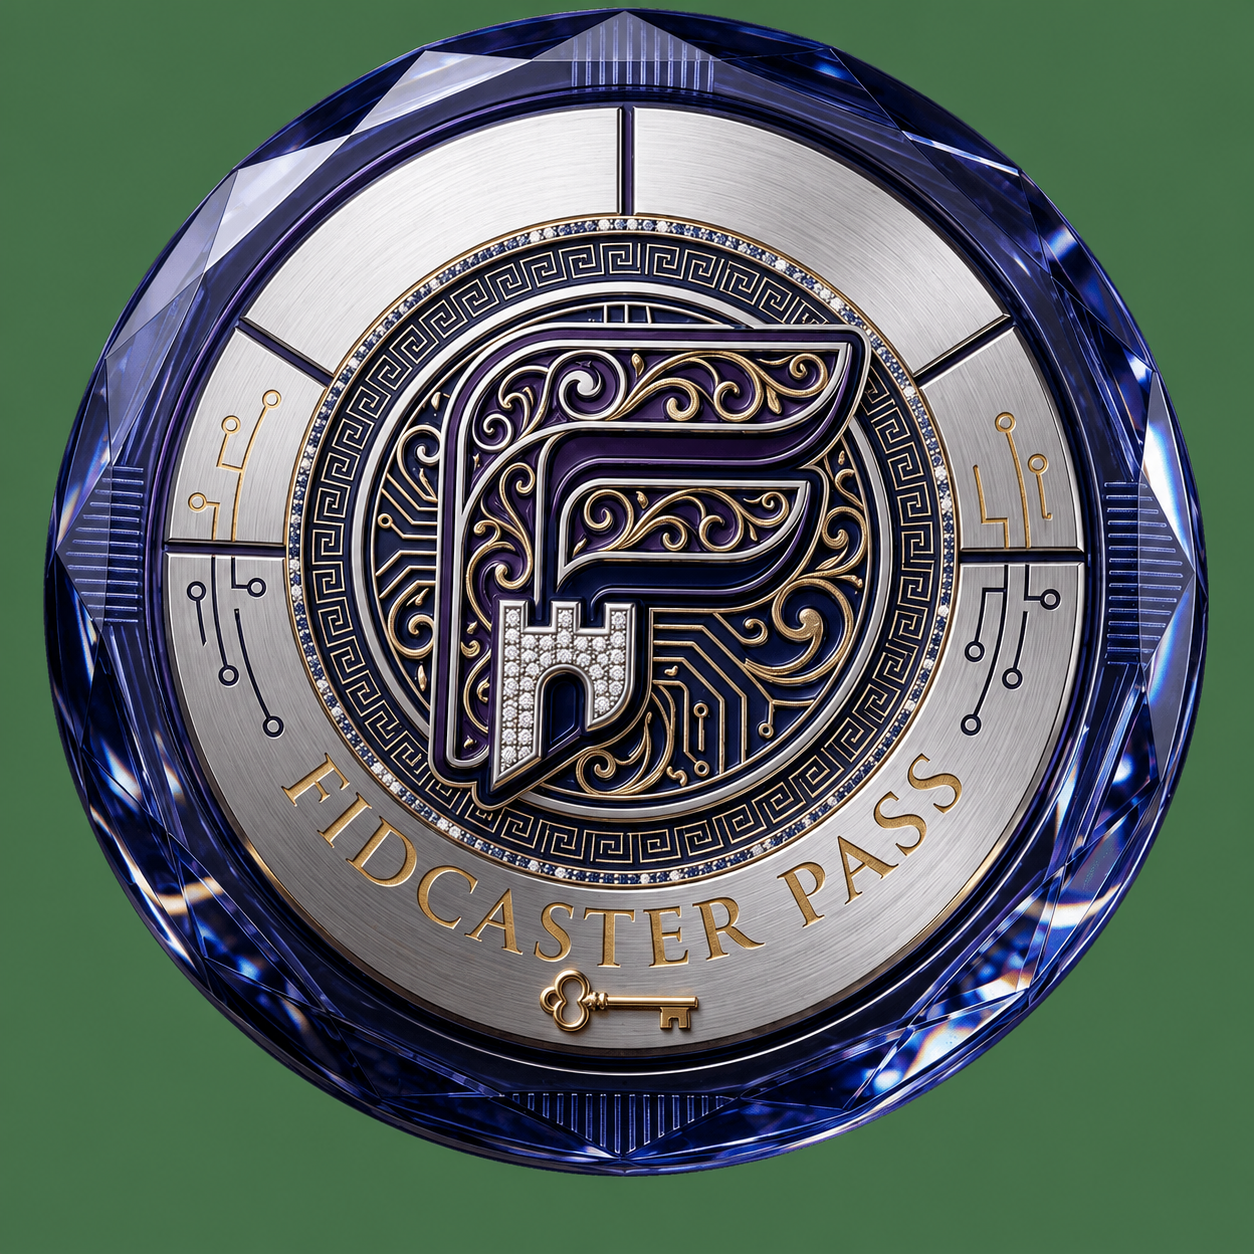
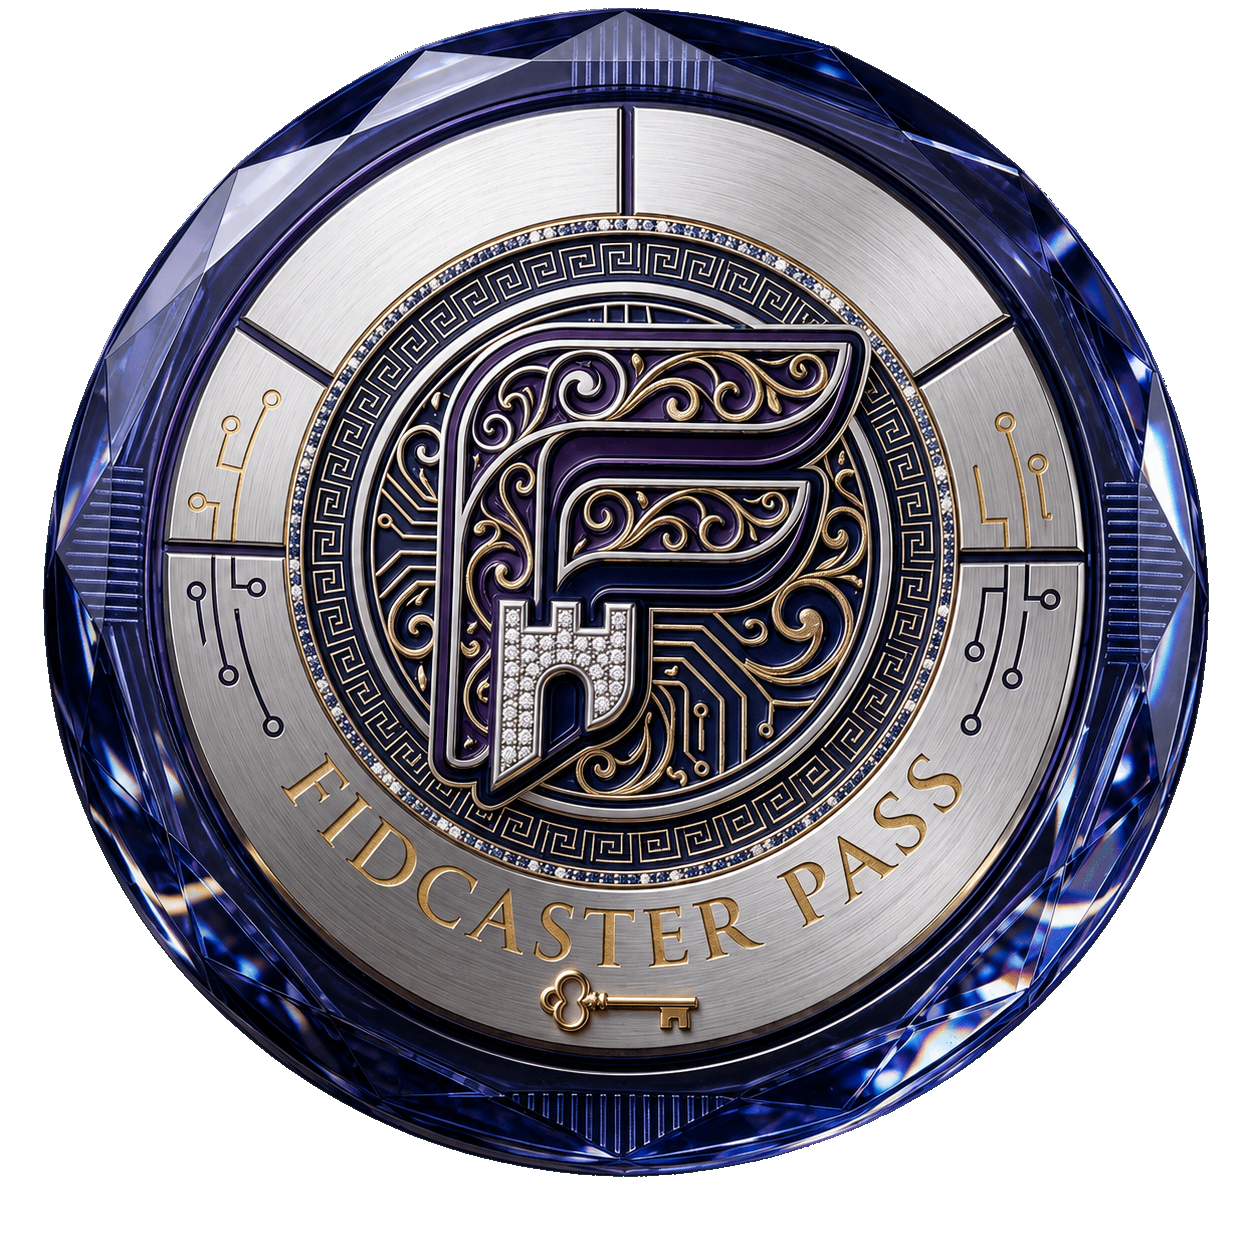
Update memory, NFT pass image, configuration, and add deployment script for Farcaster client
Replit-Commit-Author: Agent

diff --git a/artifacts/farcaster-client/server/nft-pass-routes.ts b/artifacts/farcaster-client/server/nft-pass-routes.ts
@@ -7,7 +7,7 @@
  */
 import { Router } from "express";
 import { createWalletClient, createPublicClient, http, isAddress } from "viem";
-import { optimism } from "viem/chains";
+import { base } from "viem/chains";
 import { privateKeyToAccount } from "viem/accounts";
 import { readFileSync, existsSync } from "node:fs";
 import { resolve, dirname } from "node:path";
@@ -66,7 +66,7 @@ export function createNftPassRouter(): Router {
     if (!cfg || !abi) return res.json({ hasMinted: false, balance: 0, deployed: false });
 
     try {
-      const client = createPublicClient({ chain: optimism, transport: http() });
+      const client = createPublicClient({ chain: base, transport: http("https://mainnet.base.org") });
       const balance = await client.readContract({
         address: cfg.contractAddress as `0x${string}`,
         abi,
@@ -95,8 +95,8 @@ export function createNftPassRouter(): Router {
 
     try {
       const minterAccount = privateKeyToAccount(privateKey);
-      const walletClient = createWalletClient({ account: minterAccount, chain: optimism, transport: http() });
-      const publicClient = createPublicClient({ chain: optimism, transport: http() });
+      const walletClient = createWalletClient({ account: minterAccount, chain: base, transport: http("https://mainnet.base.org") });
+      const publicClient = createPublicClient({ chain: base, transport: http("https://mainnet.base.org") });
 
       // Check balance first — one pass per address
       const balance = await publicClient.readContract({
@@ -128,7 +128,7 @@ export function createNftPassRouter(): Router {
       });
 
       console.log(`[nft-pass] minted to ${address} (fid ${fid}) tx=${hash}`);
-      res.json({ success: true, txHash: hash, explorerUrl: `https://optimistic.etherscan.io/tx/${hash}` });
+      res.json({ success: true, txHash: hash, explorerUrl: `https://basescan.org/tx/${hash}` });
     } catch (e) {
       console.error("[nft-pass] mint error:", e);
       res.status(500).json({ error: "mint failed", detail: String(e) });

diff --git a/artifacts/farcaster-client/src/pages/MiniAppPage.tsx b/artifacts/farcaster-client/src/pages/MiniAppPage.tsx
@@ -44,6 +44,14 @@ function useMiniAppFid() {
   useEffect(() => {
     let cancelled = false;
     async function init() {
+      // Dev preview: ?fid=XXX in URL bypasses Warpcast requirement
+      const urlFid = parseInt(new URLSearchParams(window.location.search).get("fid") ?? "0", 10);
+      if (urlFid > 0) {
+        setSdkFid(urlFid);
+        setSdkCtx({ user: { fid: urlFid, username: `preview_${urlFid}`, displayName: "Preview User" } });
+        setInFC(true); setSdkReady(true);
+        return;
+      }
       sdk.actions.ready().catch(() => {});
       try {
         const ctx = await Promise.race([

diff --git a/.agents/memory/MEMORY.md b/.agents/memory/MEMORY.md
@@ -16,3 +16,6 @@
 - [WalletPanel early-return overlay bug](wallet-overlay-bug.md) — early return at wallets.length===0 blocks overlay; fix: add && overlay==="none" to the guard condition
 - [bezoar repo identity](bezoar-repo.md) — bezoar (maxnalie-web/bezoar) is a Persian pharmacy/medical React Native app, NOT a Farcaster native client
 - [VITE_APP_MNEMONIC setup](vite-app-mnemonic.md) — APP_MNEMONIC already exposed as VITE_APP_MNEMONIC via vite.config.ts define block; no extra config needed
+- [NFT Pass contract](nft-pass-contract.md) — FidCasterPass ERC-721 on Base 0x58d18dd2173cb417440c72d10f46d3fde69bb68f; Basescan verify needs BASESCAN_API_KEY secret (V2 API)
+- [NFT image background](nft-pass-image.md) — bg is dark green R≈72 G≈109 B≈74; flood-fill from 4 corners (tolerance 40) removes it cleanly; saved as public/nft-pass-v2.png
+- [Mini app preview mode](mini-app-preview.md) — ?fid=XXX URL param in /mini bypasses Warpcast check; shows full Points/Board/Airdrop UI for testing in browser